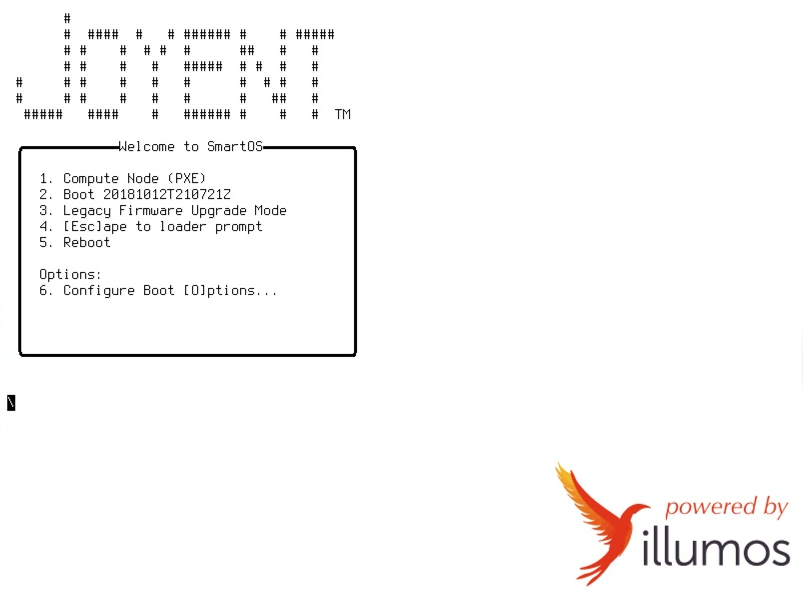
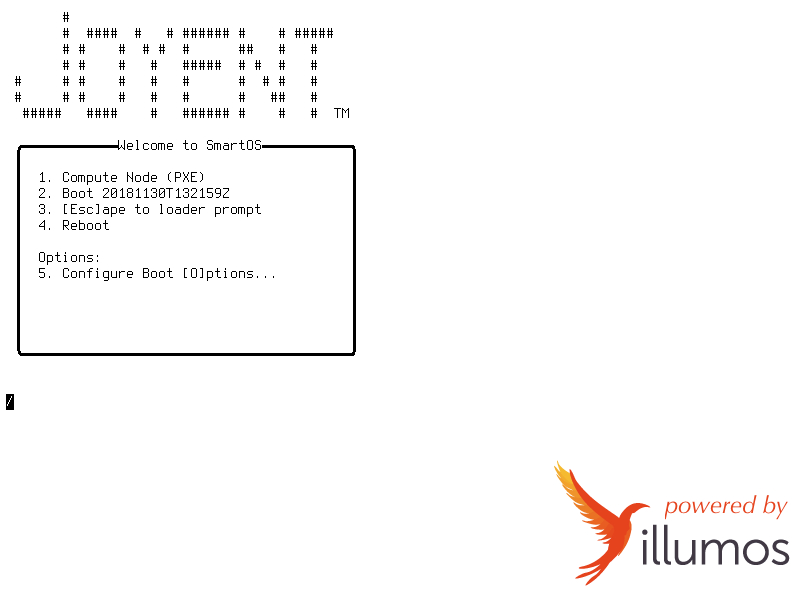
RFD 156: Update Loader screenshots RFD 156: Add section re removing FreeDOS boot option

diff --git a/rfd/0156/README.md b/rfd/0156/README.md
@@ -139,26 +139,18 @@ that allows for manually editting the grub menu configuration.  This is less
 than ideal as it requires the user to understand both the format of the Legacy
 GRUB configuration parameters and the format of kernel command line.
 
-![alt text]
-(https://github.com/joyent/rfd/raw/master/rfd/0156/smartos-grub-main-menu.jpg
-"SmartOS/GRUB Main Menu-no-roll")
+![alt text] (https://github.com/joyent/rfd/raw/master/rfd/0156/smartos-grub-main-menu.jpg "SmartOS/GRUB Main Menu-no-roll")
 
-![alt text]
-(https://github.com/joyent/rfd/raw/master/rfd/0156/triton-grub-main-menu.jpg
-"Triton/GRUB Main Menu-no-roll")
+![alt text] (https://github.com/joyent/rfd/raw/master/rfd/0156/triton-grub-main-menu.jpg "Triton/GRUB Main Menu-no-roll")
 
 Below are a pair of screenshots showing the Loader menu that will be
 displayed when booting standalone SmartOS and Triton, respectively.  On the
 surface, it seems quite similar to Legacy GRUB, in that the menu presents
 entries for a similar set of boot targets.
 
-![alt text]
-(https://github.com/joyent/rfd/raw/master/rfd/0156/smartos-loader-main-menu.jpg
-"SmartOS/Loader Main Menu")
+![alt text] (https://github.com/joyent/rfd/raw/master/rfd/0156/smartos-loader-main-menu.jpg "SmartOS/Loader Main Menu")
 
-![alt text]
-(https://github.com/joyent/rfd/raw/master/rfd/0156/triton-loader-main-menu.jpg
-"Triton/Loader Main Menu")
+![alt text] (https://github.com/joyent/rfd/raw/master/rfd/0156/triton-loader-main-menu.jpg "Triton/Loader Main Menu")
 
 However, Loader also has support for heirarchal menus.  For example, selecting
 the "Configure Boot Options" entry on the top-level menu brings the user to the
@@ -171,9 +163,26 @@ Loader also supports bitmapped consoles and ANSI color graphics for text
 consoles - allowing for company and/or product-specific logos/branding to be
 displayed.
 
-![alt text]
-(https://github.com/joyent/rfd/raw/master/rfd/0156/loader-boot-opts.jpg
-"Loader Boot Options Menu")
+![alt text] (https://github.com/joyent/rfd/raw/master/rfd/0156/loader-boot-opts.jpg "Loader Boot Options Menu")
+
+#### Removal of Legacy Firmware Upgrade Mode
+
+The current GRUB-based USB image for Triton includes a boot menu
+entry entitled "Legacy Firmware Upgrade Mode".  This entry would boot FreeDOS
+and was used to run certain firmware maintenance tools that required a
+DOS-like environment.  This was primarily used on older Richmond-A BOMs.
+
+The FreeDOS kernel does not support mounting drives with GPT labels.  Furthermore,
+the FreeDOS kernel will not run when the platform is booted in UEFI mode.
+
+Current Joyent BOMs are PXE-booted to Linux to perform firmware maintenance
+operations that cannot be done using native tools withing SmartOS.  And future
+Joyent BOMs will certainly not be reliant on DOS-based firmare management
+tools.
+
+For that reason, the "Legacy Upgrade Firmware Mode" boot option will not be
+supported on the new GPT/Loader based USB images and Freedos and memdisk
+will be removed from the joyent/sdcboot source repository.
 
 #### Build Tool Changes
 
